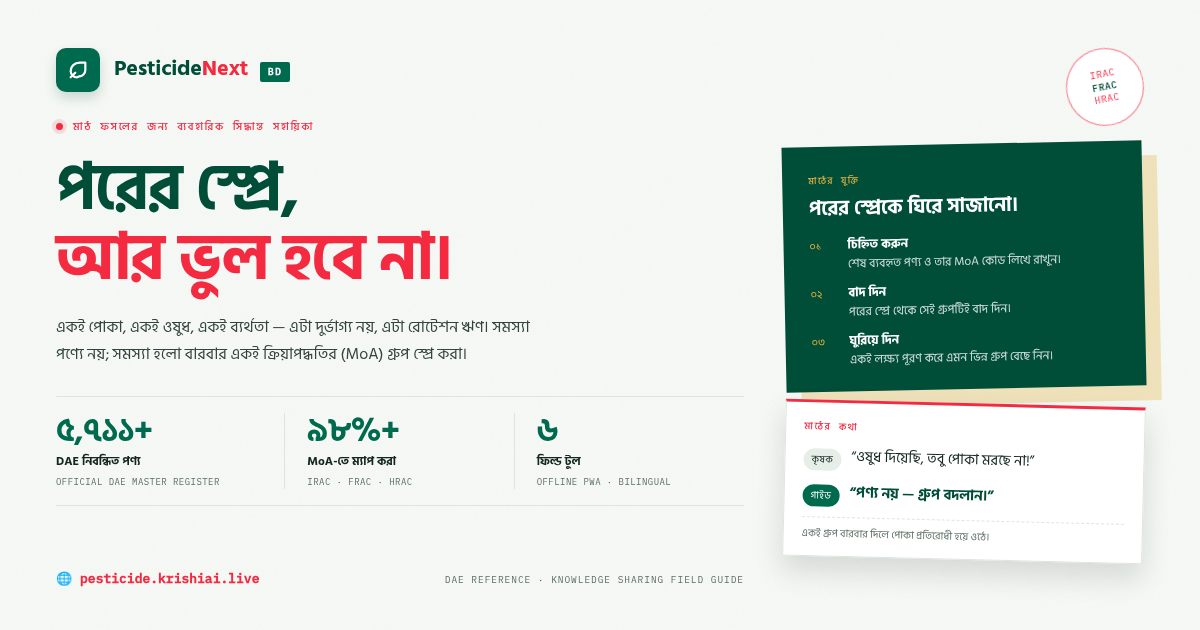
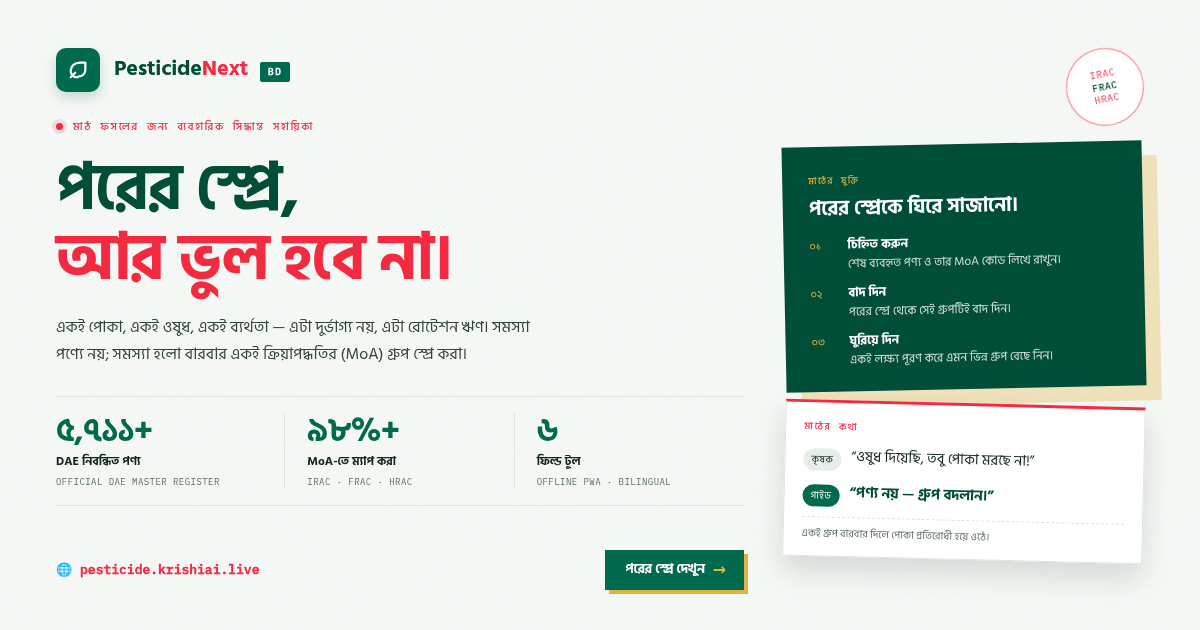
Fix 4 opengraph.xyz findings: CTA on OG image + shorter description + twitter:card (#34)
## Findings from opengraph.xyz

1. **Image is missing conversion text** — no call-to-action detected on
   the OG image, making it less clickable in social feeds.
2. **Description is too long** — og:description was 195 chars; social
   previews show ~125 chars and truncate on mobile.
3. **Meta description is too long** — same 195 chars; Google truncates
   around 150-160 chars in search results.
4. **X card type is missing** — twitter:card was removed in PR #33
   (Twitter depriority decision); opengraph.xyz flags its absence as a
   defect because Twitter/X falls back to a tiny summary card instead
   of the large-image preview.

## Fixes

### 1. CTA pill on the OG image

Added a green pill button at the bottom-right of the OG image with the
text 'পরের স্প্রে দেখুন' (See the next spray) + golden arrow accent.
The pill uses the same editorial design language as the rest of the
image: bottle-green background, white Hind Siliguri display text,
golden offset shadow (4px 4px 0 var(--golden)). VLM-verified that the
pill is clearly visible and the URL 'pesticide.krishiai.live' is still
readable at bottom-left.

### 2 + 3. Shorter description (195 → 119 chars)

Old (195 chars):
  পরের স্প্রে, আর ভুল হবে না — বাংলাদেশের মাঠ ফসলের জন্য ডিএই নিবন্ধিত
  ৫,৭১১+ বালাইনাশক ডাটাবেস, ন্যাপস্যাক স্প্রেয়ার ট্যাংক ক্যালকুলেটর,
  প্রতিরোধ রোধে MoA রোটেশন ও বিনামূল্যে পকেট বুক ম্যানুয়াল।

New (119 chars):
  পরের স্প্রে, আর ভুল হবে না — বাংলাদেশের মাঠ ফসলের জন্য ৫,৭১১+ DAE
[…]

Changed region(s): [[0.4625, 0.8746, 0.6475, 0.9651], [0.0308, 0.8746, 0.2158, 0.9349], [0.37, 0.9048, 0.4317, 0.9349]]

diff --git a/index.html b/index.html
@@ -4,7 +4,7 @@
     <meta charset="UTF-8" />
     <meta name="viewport" content="width=device-width, initial-scale=1.0, viewport-fit=cover" />
     <title>পেস্টিসাইডনেক্সট — পরের স্প্রে, আর ভুল হবে না।</title>
-    <meta name="description" content="পরের স্প্রে, আর ভুল হবে না — বাংলাদেশের মাঠ ফসলের জন্য ডিএই নিবন্ধিত ৫,৭১১+ বালাইনাশক ডাটাবেস, ন্যাপস্যাক স্প্রেয়ার ট্যাংক ক্যালকুলেটর, প্রতিরোধ রোধে MoA রোটেশন ও বিনামূল্যে পকেট বুক ম্যানুয়াল।" />
+    <meta name="description" content="পরের স্প্রে, আর ভুল হবে না — বাংলাদেশের মাঠ ফসলের জন্য ৫,৭১১+ DAE বালাইনাশক, MoA রোটেশন, ট্যাংক ক্যালকুলেটর ও পকেট বুক।" />
     <meta name="theme-color" content="#006a4e" />
     <meta name="application-name" content="পেস্টিসাইডনেক্সট" />
     <meta name="apple-mobile-web-app-title" content="পেস্টিসাইডনেক্সট" />
@@ -36,7 +36,7 @@
       WhatsApp / Facebook / Telegram / LinkedIn / Twitter-X all require.
     -->
     <meta property="og:title" content="পেস্টিসাইডনেক্সট — পরের স্প্রে, আর ভুল হবে না।" />
-    <meta property="og:description" content="পরের স্প্রে, আর ভুল হবে না — বাংলাদেশের মাঠ ফসলের জন্য ডিএই নিবন্ধিত ৫,৭১১+ বালাইনাশক ডাটাবেস, ন্যাপস্যাক স্প্রেয়ার ট্যাংক ক্যালকুলেটর, প্রতিরোধ রোধে MoA রোটেশন ও বিনামূল্যে পকেট বুক ম্যানুয়াল।" />
+    <meta property="og:description" content="পরের স্প্রে, আর ভুল হবে না — বাংলাদেশের মাঠ ফসলের জন্য ৫,৭১১+ DAE বালাইনাশক, MoA রোটেশন, ট্যাংক ক্যালকুলেটর ও পকেট বুক।" />
     <meta property="og:type" content="website" />
     <meta property="og:locale" content="bn_BD" />
     <meta property="og:locale:alternate" content="en_US" />
@@ -47,6 +47,10 @@
     <meta property="og:image:width" content="1200" />
     <meta property="og:image:height" content="630" />
     <meta property="og:image:type" content="image/png" />
+    <meta name="twitter:card" content="summary_large_image" />
+    <meta name="twitter:title" content="পেস্টিসাইডনেক্সট — পরের স্প্রে, আর ভুল হবে না।" />
+    <meta name="twitter:description" content="পরের স্প্রে, আর ভুল হবে না — বাংলাদেশের মাঠ ফসলের জন্য ৫,৭১১+ DAE বালাইনাশক, MoA রোটেশন, ট্যাংক ক্যালকুলেটর ও পকেট বুক।" />
+    <meta name="twitter:image" content="https://pesticide.krishiai.live/og-image.png" />
     <link rel="canonical" href="https://pesticide.krishiai.live/" />
     <script>
       (function() {

diff --git a/src/components/DocumentMeta.tsx b/src/components/DocumentMeta.tsx
@@ -19,11 +19,11 @@ const TAB_META: Record<AppTab, {
   home: {
     en: {
       title: 'PesticideNext — Smart Crop Chemical & Pest Management Suite',
-      description: 'All-in-one agricultural platform: 5,711+ DAE pesticides, Knapsack sprayer tank calculator, MoA resistance rotation planner, WHO safety protocols, and offline pocket guidebook.'
+      description: 'The next spray, without the mistake — 5,711+ DAE pesticides, MoA rotation, tank calculator, and pocket book for Bangladesh.'
     },
     bn: {
       title: 'পেস্টিসাইডনেক্সট — আধুনিক বালাই ব্যবস্থাপনা ও সঠিক রাসায়নিক মাত্রা সহায়িকা',
-      description: 'বাংলাদেশের মাঠ ফসলের জন্য ডিএই নিবন্ধিত ৫,৭১১+ বালাইনাশক ডাটাবেস, ন্যাপস্যাক স্প্রেয়ার ট্যাংক ক্যালকুলেটর, প্রতিরোধ রোধে MoA রোটেশন ও বিনামূল্যে পকেট বুক ম্যানুয়াল।'
+      description: 'পরের স্প্রে, আর ভুল হবে না — বাংলাদেশের মাঠ ফসলের জন্য ৫,৭১১+ DAE বালাইনাশক, MoA রোটেশন, ট্যাংক ক্যালকুলেটর ও পকেট বুক।'
     }
   },
   database: {
@@ -162,13 +162,18 @@ export const DocumentMeta: React.FC<{ activeTab: AppTab }> = ({ activeTab }) => 
     setNamedMeta('property', 'og:image:height', '630');
     setNamedMeta('property', 'og:image:type', 'image/png');
 
-    // Twitter / X card meta tags intentionally omitted — sharing priority
-    // is WhatsApp, Messenger, Facebook, and LinkedIn (per product
-    // decision). Twitter's summary_large_image card was removed to avoid
-    // maintaining a parallel meta-tag namespace that is no longer a
-    // distribution channel. Twitter still falls back to og:image via
-    // Open Graph compatibility, so the preview card continues to render
-    // there too.
+    // Twitter / X card meta tags. Although Twitter/X is no longer a share
+    // priority (the share button was replaced with LinkedIn in PR #33),
+    // opengraph.xyz and similar preview validators flag the absence of
+    // twitter:card as a defect — and without it, Twitter/X falls back to
+    // a tiny summary card instead of the large-image preview. Adding
+    // these tags costs nothing and keeps the preview card rendering
+    // correctly on every platform that respects Twitter's card spec.
+    setNamedMeta('name', 'twitter:card', 'summary_large_image');
+    setNamedMeta('name', 'twitter:title', copy.title);
+    setNamedMeta('name', 'twitter:description', copy.description);
+    setNamedMeta('name', 'twitter:image', ogImageAbs);
+    setNamedMeta('name', 'twitter:image:alt', ogImageAlt);
 
     // Schema.org WebApplication JSON-LD
     let scriptEl = document.head.querySelector('script[type="application/ld+json"]');
